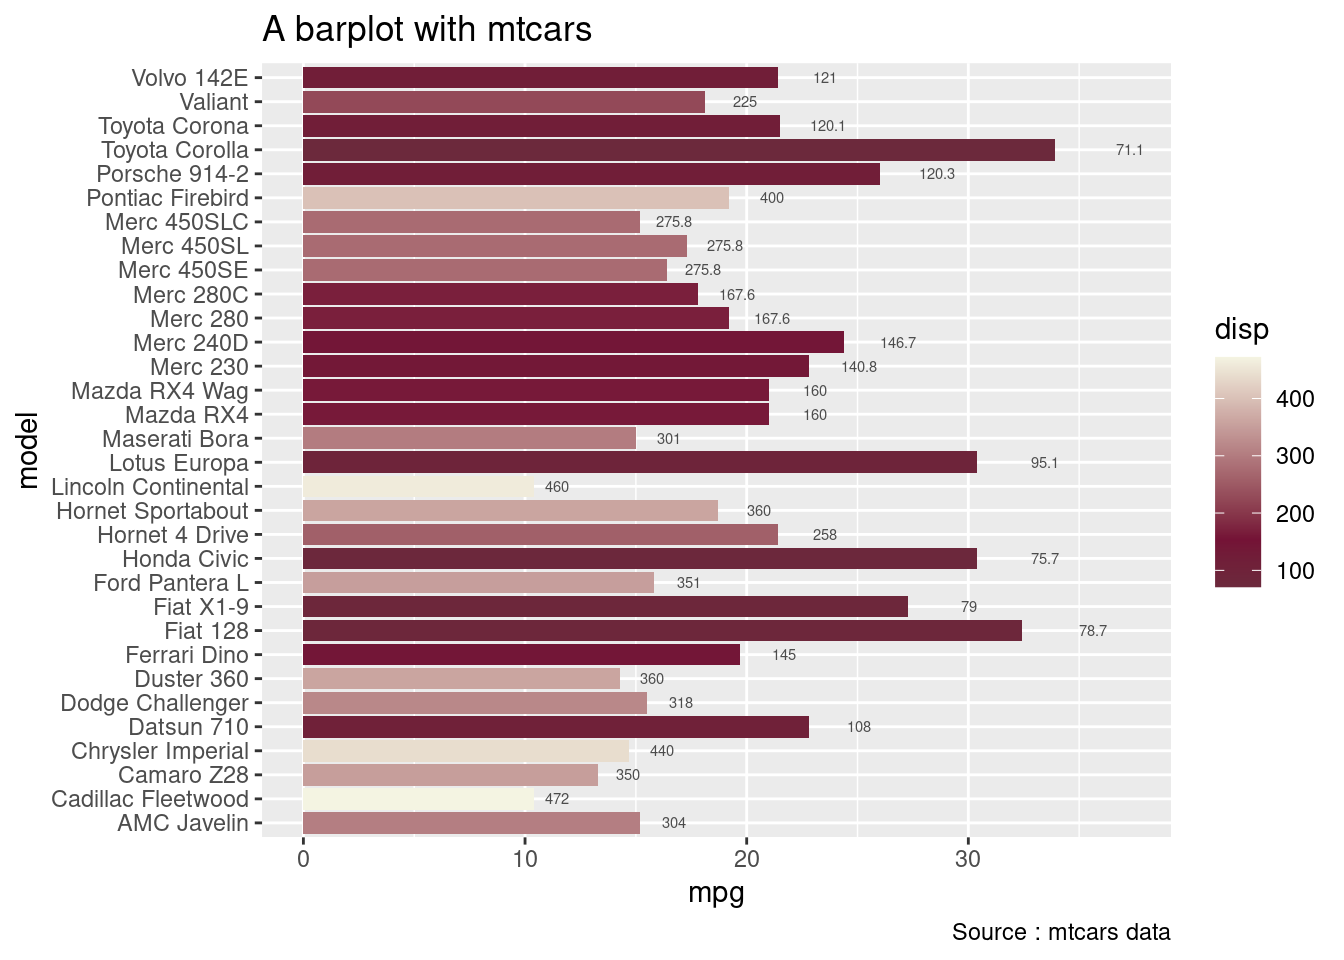
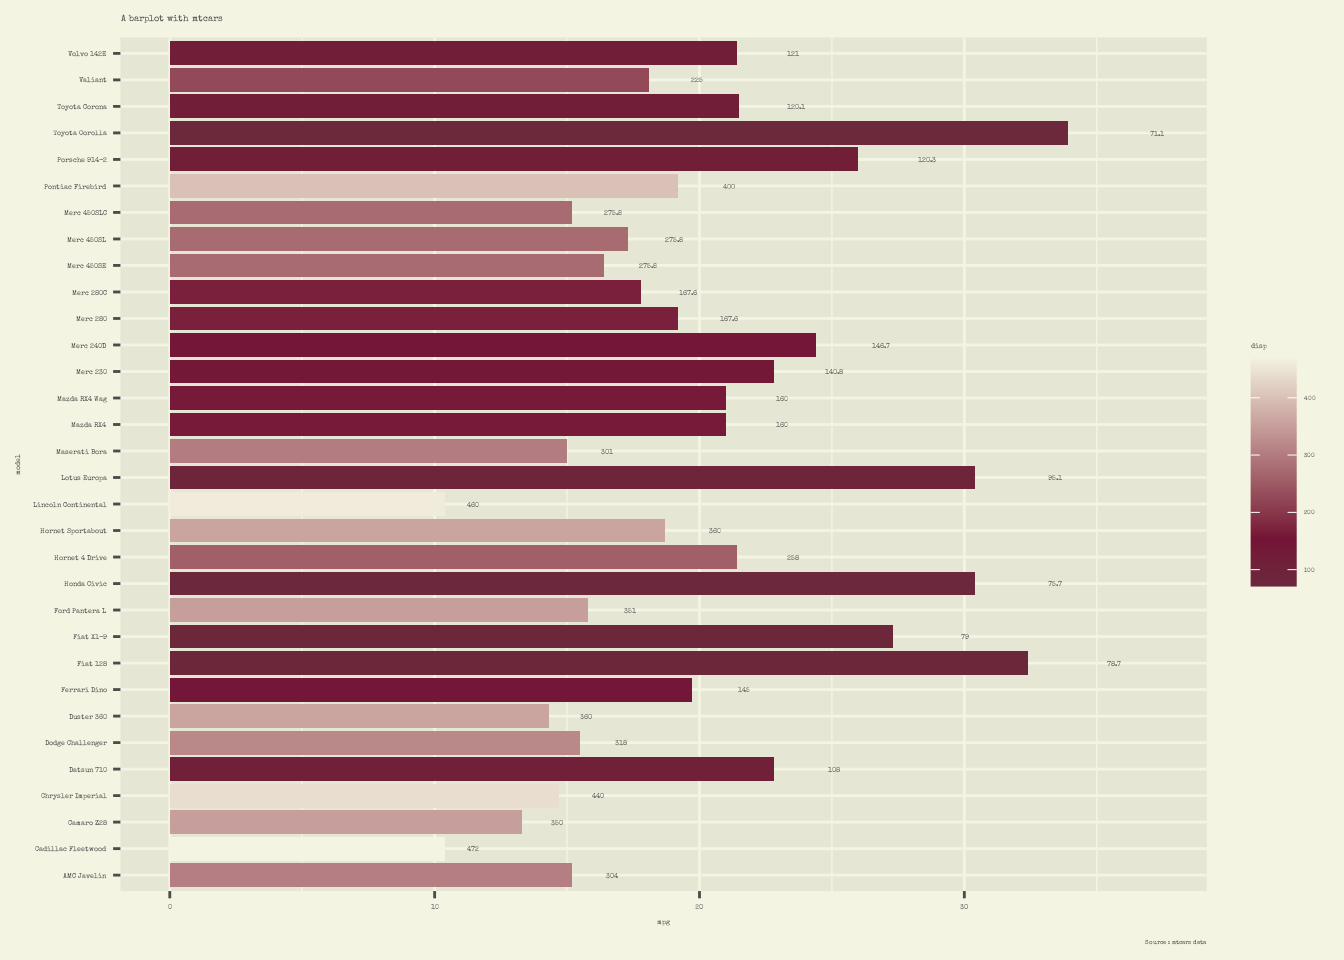
Fig showtetxt

diff --git a/content/post/2020-fast-rmd-theming-with-thematic-and-bootstraplib.html b/content/post/2020-fast-rmd-theming-with-thematic-and-bootstraplib.html
@@ -60,7 +60,6 @@ thematic_on(
   coord_flip() +
   labs(title = &quot;A barplot with mtcars&quot;,
        caption = &quot;Source : mtcars data&quot;)</code></pre>
-<pre><code>## Error : The fig.showtext code chunk option must be TRUE</code></pre>
 <p><img src="/post/2020-fast-rmd-theming-with-thematic-and-bootstraplib_files/figure-html/unnamed-chunk-6-1.png" width="672" style="display: block; margin: auto;" /></p>
 <p>You can add a theme to your graph but will need some further coding. But you need to know that the last element overlap your styling. Because complete themes have fonts and/or colors, they may replace your styling. If you want to keep your theme, you have to set it before to call <code>thematic_on()</code> through a <code>theme_set(theme_minimal())</code> as an example (see <a href="https://github.com/rstudio/thematic/issues/16" class="uri">https://github.com/rstudio/thematic/issues/16</a>).</p>
 <pre class="r"><code>ggplot(iris, aes(x = Sepal.Length, y = Sepal.Width, color =  Species)) +
@@ -71,7 +70,6 @@ thematic_on(
   theme_minimal(base_family = thematic_get_option(&quot;font&quot;)$families,
                 base_size = thematic_get_option(&quot;font&quot;)$scale * 11,
                 base_line_size = 1.1)</code></pre>
-<pre><code>## Error : The fig.showtext code chunk option must be TRUE</code></pre>
 <p><img src="/post/2020-fast-rmd-theming-with-thematic-and-bootstraplib_files/figure-html/unnamed-chunk-7-1.png" width="672" style="display: block; margin: auto;" /></p>
 <p><code>thematic</code> may work with interactive graph packages like <code>plotly</code> or <code>ggiraph</code> if you use some special feature (see <a href="https://github.com/rstudio/shiny/pull/2740" class="uri">https://github.com/rstudio/shiny/pull/2740</a> and <a href="https://github.com/rstudio/thematic/blob/8ed47c589dd4cb611823a958b46f3ed029685bcf/vignettes/Shiny.Rmd#L69" class="uri">https://github.com/rstudio/thematic/blob/8ed47c589dd4cb611823a958b46f3ed029685bcf/vignettes/Shiny.Rmd#L69</a>)</p>
 </div>
